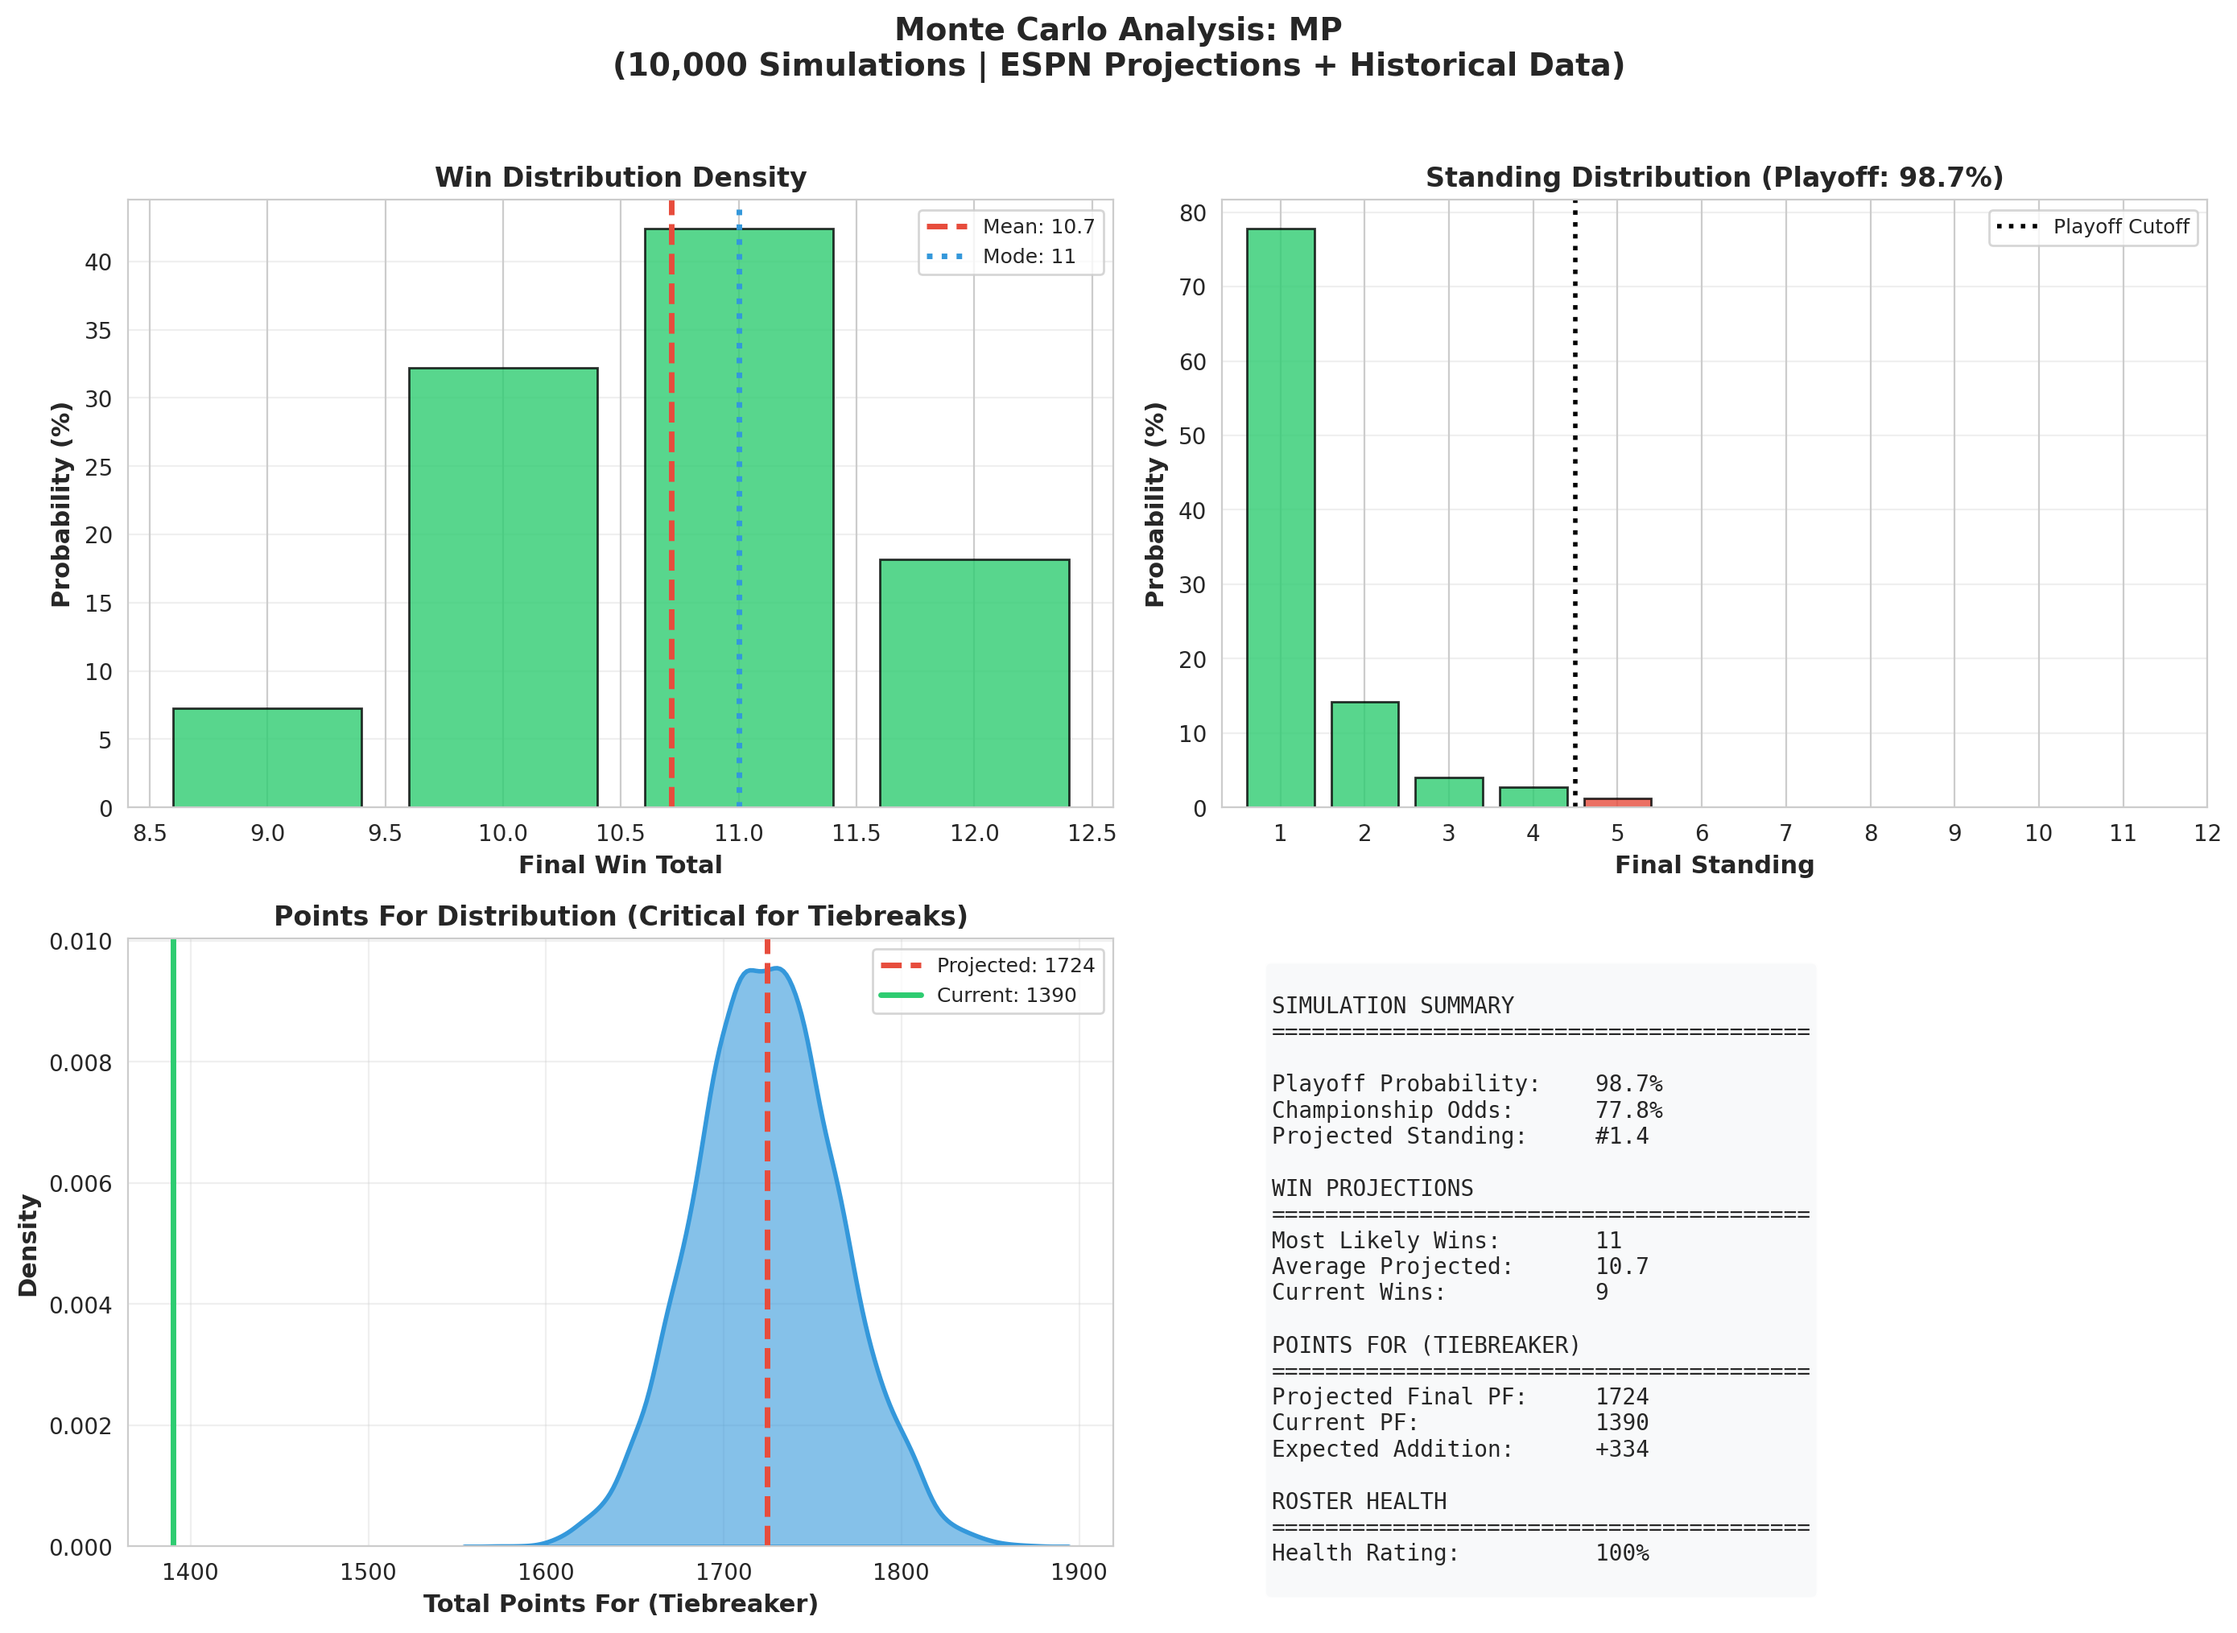
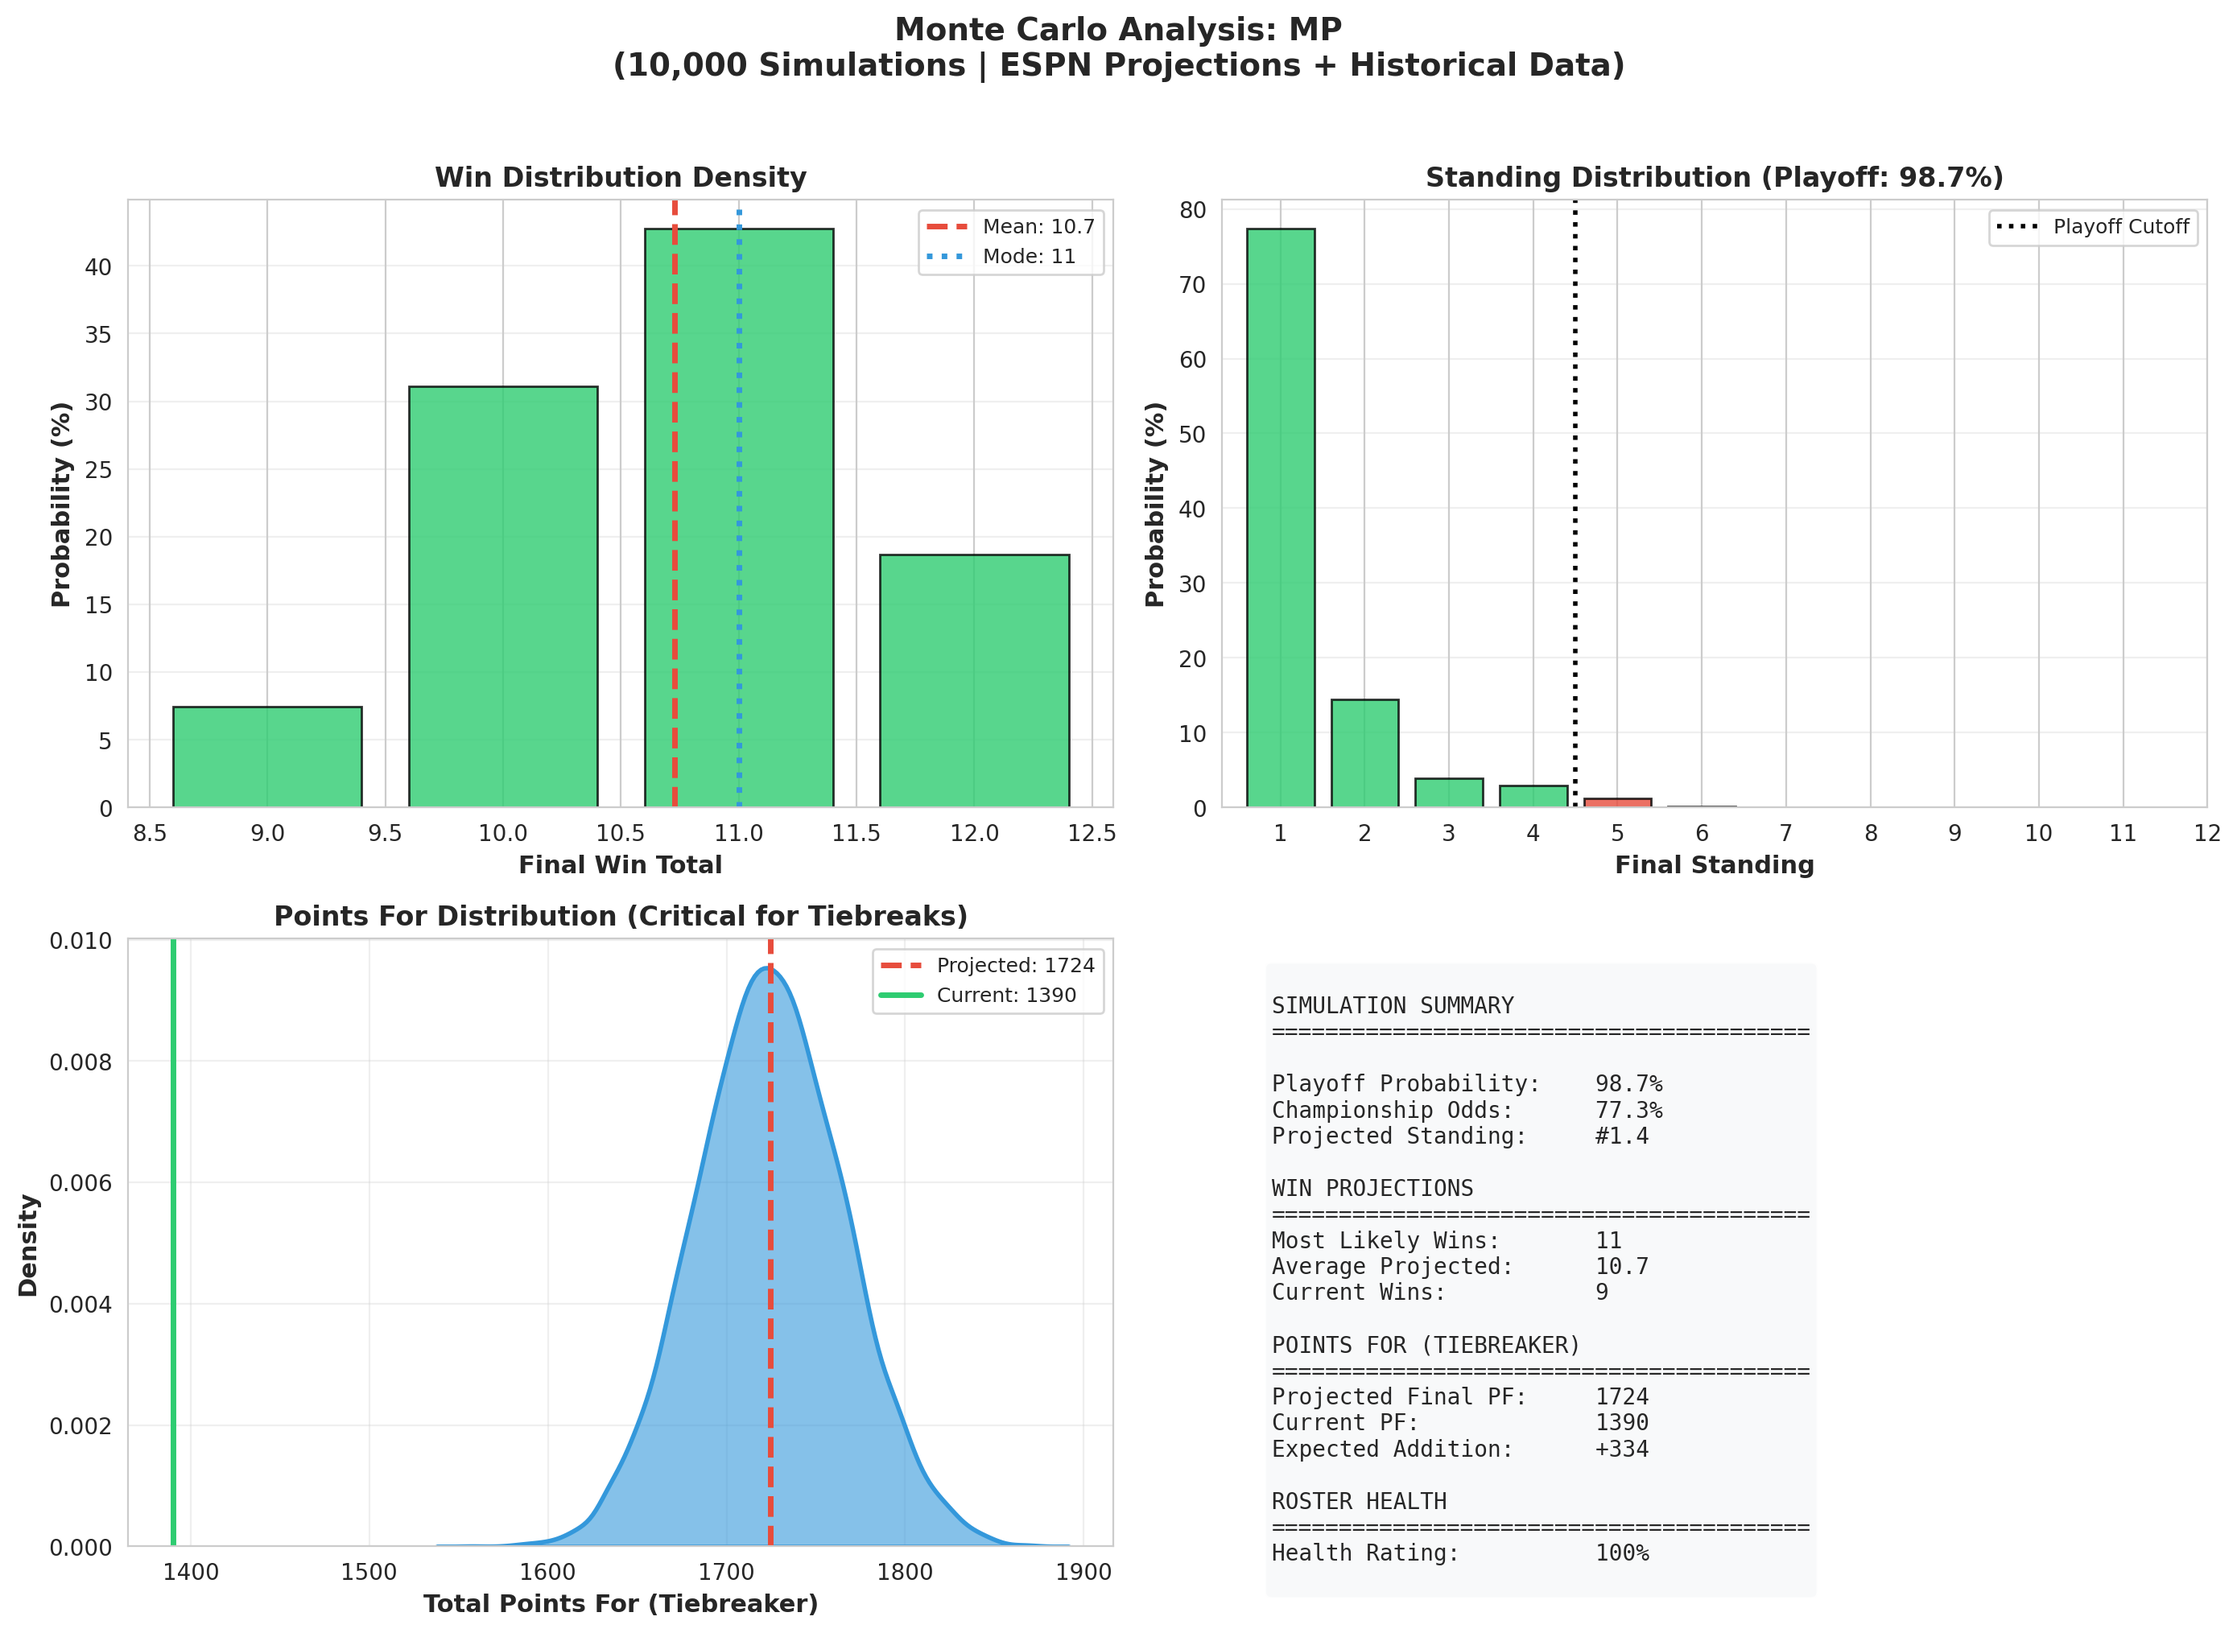
Update fantasy football power rankings with latest projections
Update the generation timestamp and regenerate the Monte Carlo simulation results and associated visualizations for fantasy football power rankings.

Replit-Commit-Author: Agent
Replit-Commit-Session-Id: a1b036e6-8762-4180-88a8-0ea07671e400
Replit-Commit-Checkpoint-Type: full_checkpoint
Replit-Commit-Event-Id: 1e7eb969-15e6-4545-a102-f4c007297cb7

diff --git a/power_rankings_analysis.md b/power_rankings_analysis.md
@@ -1,5 +1,5 @@
 # 2025 Fantasy Football Power Rankings Analysis
-## Week 12 Update - Generated November 27, 2025 at 08:17 AM
+## Week 12 Update - Generated November 27, 2025 at 08:23 AM
 
 ---
 
@@ -174,14 +174,14 @@ Based on 10,000 Monte Carlo simulations blending ESPN projections with historica
 
 | Team | Record | Playoff % | Most Likely Wins | Projected PF | Proj. Standing | #1 Seed % | PF Leader % |
 |------|--------|-----------|------------------|--------------|----------------|----------------|-------------|
-| MP | 9-3 | 98.7% | 11 | 1724 | #1.4 | 77.8% | 42.4% |
-| ZSF | 7-5 | 76.0% | 9 | 1727 | #3.4 | 9.2% | 47.8% |
-| sgf | 8-4 | 72.2% | 9 | 1666 | #3.5 | 8.4% | 6.3% |
-| KIRK | 7-5 | 75.6% | 9 | 1653 | #3.6 | 2.6% | 1.6% |
-| POO | 7-5 | 47.1% | 9 | 1601 | #4.4 | 1.5% | 0.1% |
-| GV | 7-5 | 28.5% | 9 | 1579 | #5.1 | 0.6% | 0.0% |
-| PATS | 5-7 | 1.2% | 7 | 1630 | #7.7 | 0.0% | 1.8% |
-| GEMP | 6-6 | 0.8% | 7 | 1465 | #7.7 | 0.0% | 0.0% |
+| MP | 9-3 | 98.7% | 11 | 1724 | #1.4 | 77.3% | 43.0% |
+| ZSF | 7-5 | 75.7% | 9 | 1728 | #3.3 | 9.4% | 47.6% |
+| sgf | 8-4 | 72.1% | 9 | 1666 | #3.5 | 8.5% | 6.0% |
+| KIRK | 7-5 | 75.0% | 9 | 1653 | #3.6 | 2.5% | 1.5% |
+| POO | 7-5 | 47.2% | 9 | 1600 | #4.5 | 1.6% | 0.1% |
+| GV | 7-5 | 29.2% | 9 | 1579 | #5.1 | 0.7% | 0.0% |
+| PATS | 5-7 | 1.4% | 7 | 1630 | #7.7 | 0.0% | 1.8% |
+| GEMP | 6-6 | 0.8% | 7 | 1464 | #7.7 | 0.0% | 0.0% |
 | KESS | 5-7 | 0.0% | 6 | 1439 | #8.9 | 0.0% | 0.0% |
 | ROUX | 4-8 | 0.0% | 6 | 1437 | #9.5 | 0.0% | 0.0% |
 | 3000 | 4-8 | 0.0% | 4 | 1358 | #11.1 | 0.0% | 0.0% |
@@ -216,12 +216,12 @@ Since Points For is the tiebreaker, here's who's positioned best if records end 
 
 | Rank | Team | Current PF | Projected Final PF | Expected Addition |
 |------|------|------------|-------------------|-------------------|
-| 1 | ZSF | 1379 | 1727 | +349 |
+| 1 | ZSF | 1379 | 1728 | +349 |
 | 2 | MP | 1390 | 1724 | +334 |
-| 3 | sgf | 1355 | 1666 | +312 |
-| 4 | KIRK | 1312 | 1653 | +341 |
+| 3 | sgf | 1355 | 1666 | +311 |
+| 4 | KIRK | 1312 | 1653 | +340 |
 | 5 | PATS | 1299 | 1630 | +331 |
-| 6 | POO | 1267 | 1601 | +334 |
+| 6 | POO | 1267 | 1600 | +333 |
 
 
 ---
@@ -269,18 +269,18 @@ Each manager's **total investment** = $250 buy-in + (FAAB Spent ÷ 2). Net Expec
 
 | Team | Playoff % | PF Leader % | Total Cost | E[Playoff] | E[PF Prize] | E[Weekly] | E[Return] | **Net Expected** |
 |------|-----------|-------------|------------|------------|-------------|-----------|-----------|------------------|
-| MP | 98.7% | 42.4% | $258 | $1286 | $93 | $28 | $1407 | **$1149** |
-| ZSF | 76.0% | 47.8% | $289 | $443 | $104 | $28 | $575 | **$286** |
-| sgf | 72.2% | 6.3% | $258 | $404 | $14 | $27 | $445 | **$187** |
-| KIRK | 75.6% | 1.6% | $265 | $309 | $3 | $26 | $339 | **$74** |
-| POO | 47.1% | 0.1% | $270 | $167 | $0 | $26 | $193 | **$-77** |
-| GV | 28.5% | 0.0% | $278 | $89 | $0 | $25 | $114 | **$-164** |
+| MP | 98.7% | 43.0% | $258 | $1281 | $94 | $28 | $1403 | **$1145** |
+| ZSF | 75.7% | 47.6% | $289 | $452 | $104 | $28 | $583 | **$294** |
+| sgf | 72.1% | 6.0% | $258 | $404 | $13 | $27 | $444 | **$186** |
+| KIRK | 75.0% | 1.5% | $265 | $307 | $3 | $26 | $337 | **$72** |
+| POO | 47.2% | 0.1% | $270 | $162 | $0 | $26 | $188 | **$-82** |
+| GV | 29.2% | 0.0% | $278 | $93 | $0 | $25 | $118 | **$-160** |
 | 3000 | 0.0% | 0.0% | $250 | $0 | $0 | $22 | $22 | **$-228** |
 | GEMP | 0.8% | 0.0% | $256 | $0 | $0 | $24 | $24 | **$-232** |
 | WOOD | 0.0% | 0.0% | $254 | $0 | $0 | $21 | $21 | **$-233** |
 | ROUX | 0.0% | 0.0% | $266 | $0 | $0 | $23 | $23 | **$-243** |
 | KESS | 0.0% | 0.0% | $278 | $0 | $0 | $23 | $23 | **$-255** |
-| PATS | 1.2% | 1.8% | $296 | $1 | $4 | $26 | $31 | **$-265** |
+| PATS | 1.4% | 1.8% | $296 | $1 | $4 | $26 | $31 | **$-265** |
 
 
 ### How Expected Payouts Are Calculated
@@ -510,7 +510,7 @@ The Optimizer is nothing short of **revolutionary**. It scans every roster, dete
 
 Sitting atop the standings with a commanding 9-3 record, this team has earned the top spot through dominant performance. Their 115.85 PPG leads the league, which translates to an impressive 8.36 MVP-W and 9 top-6 weekly finishes. With a +0.64 WAX, they've caught a few breaks too - but at this level, you take what you can get. 
 
-**Projection Summary:** Most likely finish: **11 wins** | Projected PF: **1724** | Playoff: **98.7%** | #1 Seed: **77.8%** 
+**Projection Summary:** Most likely finish: **11 wins** | Projected PF: **1724** | Playoff: **98.7%** | #1 Seed: **77.3%** 
 
 **Projection Breakdown (Avg Per Game, Weeks 13-15):** 
 | Source | Projection | Notes | 
@@ -585,7 +585,7 @@ Fully healthy starting lineup.
 
 Second place with 8-4, trailing the leader by 3.54 power points. Scoring 112.91 PPG with 8 top-6 finishes shows genuine quality. 
 
-**Projection Summary:** Most likely finish: **9 wins** | Projected PF: **1666** | Playoff: **72.2%** | #1 Seed: **8.4%** 
+**Projection Summary:** Most likely finish: **9 wins** | Projected PF: **1666** | Playoff: **72.1%** | #1 Seed: **8.5%** 
 
 **Projection Breakdown (Avg Per Game, Weeks 13-15):** 
 | Source | Projection | Notes | 
@@ -680,7 +680,7 @@ Key injuries: Chris Olave (RB, QUESTIONABLE). Bench depth: Joe Burrow (QB) avail
 
 Currently in the playoff picture at #3 with a 7-5 record. Their 114.90 PPG and 7.36 MVP-W put them in solid position. 9 top-6 finishes in 12 weeks shows they can compete with anyone. 
 
-**Projection Summary:** Most likely finish: **9 wins** | Projected PF: **1727** | Playoff: **76.0%** | #1 Seed: **9.2%** 
+**Projection Summary:** Most likely finish: **9 wins** | Projected PF: **1728** | Playoff: **75.7%** | #1 Seed: **9.4%** 
 
 **Projection Breakdown (Avg Per Game, Weeks 13-15):** 
 | Source | Projection | Notes | 
@@ -755,7 +755,7 @@ Fully healthy starting lineup. Bench depth: Travis Etienne Jr. (RB) available.
 
 Currently in the playoff picture at #4 with a 7-5 record. Their 109.36 PPG and 7.18 MVP-W put them in solid position. 8 top-6 finishes in 12 weeks shows they can compete with anyone. 
 
-**Projection Summary:** Most likely finish: **9 wins** | Projected PF: **1653** | Playoff: **75.6%** | #1 Seed: **2.6%** 
+**Projection Summary:** Most likely finish: **9 wins** | Projected PF: **1653** | Playoff: **75.0%** | #1 Seed: **2.5%** 
 
 **Projection Breakdown (Avg Per Game, Weeks 13-15):** 
 | Source | Projection | Notes | 
@@ -765,7 +765,7 @@ Currently in the playoff picture at #4 with a 7-5 record. Their 109.36 PPG and 7
 | Historical PPG | 109.4 pts | Season average through week 12 | 
 | Monte Carlo Input | 113.4 pts | 60% Optimized + 40% Historical | 
 
-*Strong odds at 76%, but fantasy football loves chaos. One bad week and this could get interesting.* 
+*Right on the knife's edge at 75%. ESPN projects enough points to stay competitive, but so does everyone else.* 
 
 **Lineup Status:** Optimally set - no BYE week or injury substitutions needed.
 
@@ -823,9 +823,9 @@ Currently in the playoff picture at #4 with a 7-5 record. Their 109.36 PPG and 7
 
 **Record:** 7-5 | **PPG:** 104.92 | **Total PF:** 1259 | **Top6:** 7 | **MVP-W:** 6.82 | **WAX:** +0.18
 
-On the playoff bubble at #5 with 7-5. Need to step it up - only 28.5% playoff odds right now. Their 104.92 PPG and 7 top-6 finishes show potential. 
+On the playoff bubble at #5 with 7-5. Need to step it up - only 29.2% playoff odds right now. Their 104.92 PPG and 7 top-6 finishes show potential. 
 
-**Projection Summary:** Most likely finish: **9 wins** | Projected PF: **1579** | Playoff: **28.5%** | #1 Seed: **0.6%** 
+**Projection Summary:** Most likely finish: **9 wins** | Projected PF: **1579** | Playoff: **29.2%** | #1 Seed: **0.7%** 
 
 **Projection Breakdown (Avg Per Game, Weeks 13-15):** 
 | Source | Projection | Notes | 
@@ -835,7 +835,7 @@ On the playoff bubble at #5 with 7-5. Need to step it up - only 28.5% playoff od
 | Historical PPG | 104.9 pts | Season average through week 12 | 
 | Monte Carlo Input | 106.6 pts | 60% Optimized + 40% Historical | 
 
-*The 28% playoff odds aren't zero, but they're not exactly inspiring confidence either. Time to pray for upsets. Injuries to Saquon Barkley (QUESTIONABLE) add unpredictability to the projections.* 
+*The 29% playoff odds aren't zero, but they're not exactly inspiring confidence either. Time to pray for upsets. Injuries to Saquon Barkley (QUESTIONABLE) add unpredictability to the projections.* 
 
 **Roster Health & Availability Report:** 
 Key injuries: Saquon Barkley (RB, QUESTIONABLE). Bench depth: Dak Prescott (QB) available. 
@@ -901,9 +901,9 @@ Key injuries: Saquon Barkley (RB, QUESTIONABLE). Bench depth: Dak Prescott (QB) 
 
 **Record:** 7-5 | **PPG:** 105.56 | **Total PF:** 1267 | **Top6:** 6 | **MVP-W:** 6.00 | **WAX:** +1.00
 
-On the playoff bubble at #6 with 7-5. Need to step it up - only 47.1% playoff odds right now. Their 105.56 PPG and 6 top-6 finishes show potential. They've benefited from +1.00 WAX - riding some good matchups. 
+On the playoff bubble at #6 with 7-5. Need to step it up - only 47.2% playoff odds right now. Their 105.56 PPG and 6 top-6 finishes show potential. They've benefited from +1.00 WAX - riding some good matchups. 
 
-**Projection Summary:** Most likely finish: **9 wins** | Projected PF: **1601** | Playoff: **47.1%** | #1 Seed: **1.5%** 
+**Projection Summary:** Most likely finish: **9 wins** | Projected PF: **1600** | Playoff: **47.2%** | #1 Seed: **1.6%** 
 
 **Projection Breakdown (Avg Per Game, Weeks 13-15):** 
 | Source | Projection | Notes | 
@@ -971,9 +971,9 @@ On the playoff bubble at #6 with 7-5. Need to step it up - only 47.1% playoff od
 
 **Record:** 5-7 | **PPG:** 108.22 | **Total PF:** 1299 | **Top6:** 8 | **MVP-W:** 7.18 | **WAX:** -2.18
 
-Sitting at #7 with a 5-7 record - outside looking in. At just 1.2% playoff odds, it would take a miracle. Their 108.22 PPG suggests they have some scoring punch. The -2.18 WAX means they're better than their record - just unlucky. 
+Sitting at #7 with a 5-7 record - outside looking in. At just 1.4% playoff odds, it would take a miracle. Their 108.22 PPG suggests they have some scoring punch. The -2.18 WAX means they're better than their record - just unlucky. 
 
-**Projection Summary:** Most likely finish: **7 wins** | Projected PF: **1630** | Playoff: **1.2%** | #1 Seed: **0.0%** 
+**Projection Summary:** Most likely finish: **7 wins** | Projected PF: **1630** | Playoff: **1.4%** | #1 Seed: **0.0%** 
 
 **Projection Breakdown (Avg Per Game, Weeks 13-15):** 
 | Source | Projection | Notes | 
@@ -1062,7 +1062,7 @@ Key injuries: Jaxson Dart (QB, QUESTIONABLE).
 
 Sitting at #8 with a 6-6 record - outside looking in. At just 0.8% playoff odds, it would take a miracle. Their 97.92 PPG suggests they have some scoring punch. That +1.55 WAX is actually concerning - they've been lucky and still can't crack the top 6. 
 
-**Projection Summary:** Most likely finish: **7 wins** | Projected PF: **1465** | Playoff: **0.8%** | #1 Seed: **0.0%** 
+**Projection Summary:** Most likely finish: **7 wins** | Projected PF: **1464** | Playoff: **0.8%** | #1 Seed: **0.0%** 
 
 **Projection Breakdown (Avg Per Game, Weeks 13-15):** 
 | Source | Projection | Notes | 
@@ -1473,13 +1473,13 @@ Based on Monte Carlo simulation with ESPN projections and historical performance
 | Rank | Team | Projected Wins | Projected PF | Current Record | Playoff % |
 |------|------|----------------|--------------|----------------|-----------|
 | 1 | MP | 10.7 | 1724 | 9-3 | 98.7% |
-| 2 | ZSF | 9.0 | 1727 | 7-5 | 76.0% |
-| 3 | sgf | 9.2 | 1666 | 8-4 | 72.2% |
-| 4 | KIRK | 9.2 | 1653 | 7-5 | 75.6% |
-| 5 | POO | 9.0 | 1601 | 7-5 | 47.1% |
-| 6 | GV | 8.7 | 1579 | 7-5 | 28.5% |
-| 7 | PATS | 6.6 | 1630 | 5-7 | 1.2% |
-| 8 | GEMP | 7.2 | 1465 | 6-6 | 0.8% |
+| 2 | ZSF | 9.0 | 1728 | 7-5 | 75.7% |
+| 3 | sgf | 9.3 | 1666 | 8-4 | 72.1% |
+| 4 | KIRK | 9.2 | 1653 | 7-5 | 75.0% |
+| 5 | POO | 8.9 | 1600 | 7-5 | 47.2% |
+| 6 | GV | 8.7 | 1579 | 7-5 | 29.2% |
+| 7 | PATS | 6.6 | 1630 | 5-7 | 1.4% |
+| 8 | GEMP | 7.2 | 1464 | 6-6 | 0.8% |
 | 9 | KESS | 6.4 | 1439 | 5-7 | 0.0% |
 | 10 | ROUX | 5.6 | 1437 | 4-8 | 0.0% |
 | 11 | 3000 | 4.5 | 1358 | 4-8 | 0.0% |
@@ -1493,7 +1493,7 @@ Based on Monte Carlo simulation with ESPN projections and historical performance
 
 **Semifinal 1:** #1 MP (Proj. PF: 1724) vs #4 KIRK (Proj. PF: 1653)
 
-**Semifinal 2:** #2 ZSF (Proj. PF: 1727) vs #3 sgf (Proj. PF: 1666)
+**Semifinal 2:** #2 ZSF (Proj. PF: 1728) vs #3 sgf (Proj. PF: 1666)
 
 ---
 
